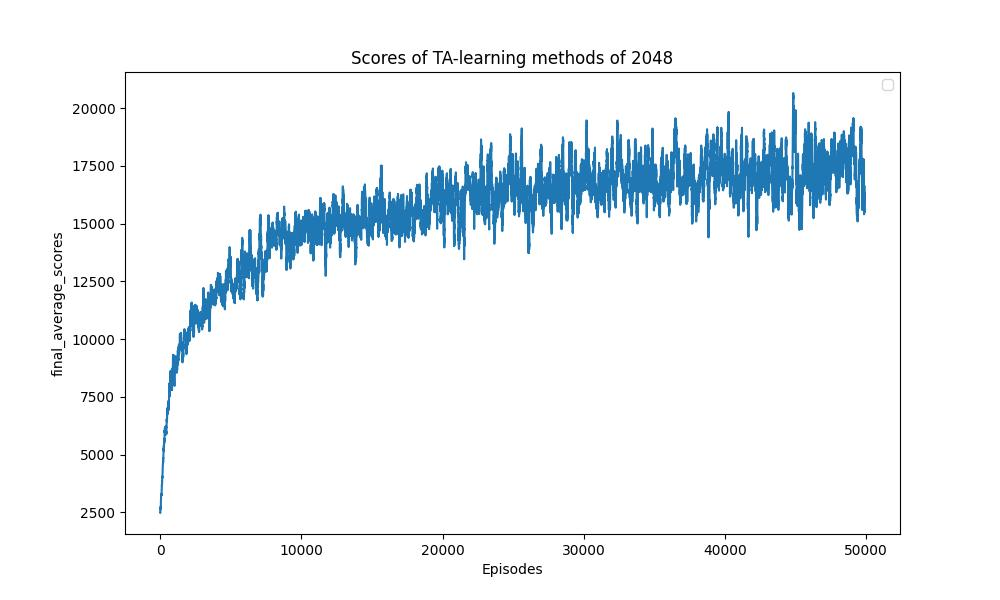
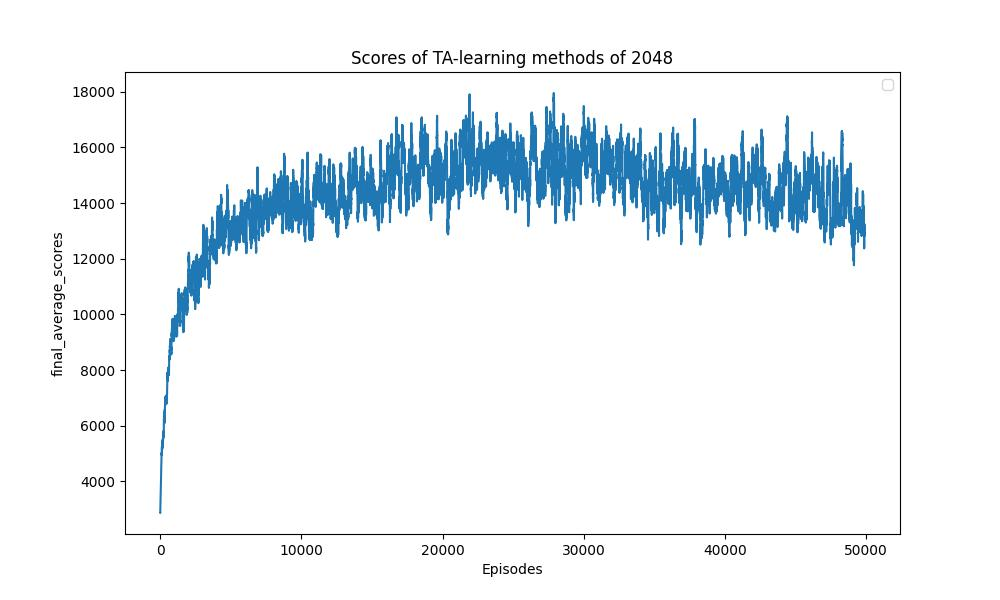
install numba

diff --git a/train.py b/train.py
@@ -58,7 +58,7 @@ class NTupleApproximator:
         """
         
         def default_value():
-            return 1.25
+            return 500
         self.board_size = board_size
         self.patterns = patterns
         # Create a weight dictionary for each pattern (shared within a pattern group)
@@ -167,7 +167,7 @@ def td_learning(env, approximator, num_episodes=50000, alpha=0.1, gamma=0.99,sta
             if rand_num < epsilon:
                 action = random.choice(legal_moves)
             else:
-                expected_reward=-10000
+                expected_reward=-100000
                 for action in range(4):
                     if action in legal_moves:
                         _,sim_state,sim_score=eval(env.board,env.score,action)
@@ -249,7 +249,7 @@ if __name__=="__main__":
     # Note: To achieve significantly better performance, you will likely need to train for over 100,000 episodes.
     # However, to quickly verify that your implementation is working correctly, you can start by running it for 1,000 episodes before scaling up.
     final_scores,stage_next_board = td_learning(env, approximator_stage1, num_episodes=60000, 
-                                                alpha=0.22, gamma=0.99,stage="stage1")
+                                                alpha=0.2, gamma=0.995,stage="stage1")
     plot_mean_scores(final_scores=final_scores,stage=1)
     with open('stage_1.pkl', 'wb') as f:
         pickle.dump(approximator_stage1.weights, f)
